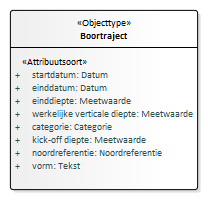
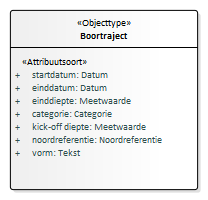
Conceptualmodel-MijnbouwconstructiesEPC-conceptueel-0.1versie27juli2020-1-20200727-20200828-135237

diff --git a/data/EPC-cat.msword.html b/data/EPC-cat.msword.html
@@ -15,7 +15,7 @@
    <body>
       <p>Conceptual model/Mijnbouwconstructies (EPC) - conceptueel/20200727</p>
       <p>Imvertor: 1.61.2</p>
-      <p>Model release: Conceptualmodel-MijnbouwconstructiesEPC-conceptueel-0.1versie27juli2020-1-20200727-20200811-134404</p>
+      <p>Model release: Conceptualmodel-MijnbouwconstructiesEPC-conceptueel-0.1versie27juli2020-1-20200727-20200828-135237</p>
       <hr>
       <section>
          <h1>Artikel 1 Definitie van registratieobject, entiteiten en attributen</h1>
@@ -45,6 +45,16 @@
                               van stoffen.</p>
                            </td>
                      </tr>
+                     <tr>
+                        <th>Populatie</th>
+                        <td>
+                           
+                           <p>De populatie mijnbouwconstructies in de basisregistratie ondergrond omvat alleen de
+                              mijnbouwconstructies die vanuit de mijnbouwwet worden uitgevoerd. Ieder object heeft
+                              ter identificatie een eigen BRO-ID. De huidige gegevensdefinitie beperkt zicht tot
+                              het boorgat.</p>
+                           </td>
+                     </tr>
                   </tbody>
                </table>
                </section>
@@ -52,7 +62,7 @@
          <section>
             <h2>Het domeinmodel</h2>
             <section id="">
-               <div class="imageinfo overview"><img src="Images/EAID_017CB205_53B6_4659_8664_F773CFA9FA2C.png" usemap="#imagemap-EAID_017CB205_53B6_4659_8664_F773CFA9FA2C" alt="Diagram "><map name="imagemap-EAID_017CB205_53B6_4659_8664_F773CFA9FA2C"><area shape="rect" alt="Gemeten punten" coords="476,567,592,669" href="#graph_EAID_5A1B04C2_2C34_4376_8F2B_27867C2DD65B"><area shape="rect" alt="Boortraject" coords="476,355,664,535" href="#graph_EAID_4E52826A_2252_4994_8AD0_986AD45E18C9"><area shape="rect" alt="Boorgat" coords="476,190,579,318" href="#graph_EAID_65D8EFAF_B4C4_4398_899C_9BFD5D3AF67A"><area shape="rect" alt="Mijnbouwconstructie" coords="476,10,646,151" href="#graph_EAID_69DE8D60_7E06_4b57_94CD_8338348EDAE5"><area shape="rect" alt="Registratiegeschiedenis" coords="211,14,423,233" href="#graph_EAID_8550146B_496A_40ca_BE86_AFD377E5A6D8"><area shape="rect" alt="Aangeleverde verticale positie" coords="676,190,947,344" href="#graph_EAID_A249D799_B098_49cd_98AA_DCAE0EB07DE7"><area shape="rect" alt="Aangeleverde locatie" coords="703,10,860,177" href="#graph_EAID_EDA11EEA_8FED_44be_AC04_18B58CB46F11"></map><p><b>Mijnbouwconstructies (EPC) -  overzicht</b></p>
+               <div class="imageinfo overview"><img src="Images/EAID_017CB205_53B6_4659_8664_F773CFA9FA2C.png" usemap="#imagemap-EAID_017CB205_53B6_4659_8664_F773CFA9FA2C" alt="Diagram "><map name="imagemap-EAID_017CB205_53B6_4659_8664_F773CFA9FA2C"><area shape="rect" alt="Gestandaardiseerde locatie" coords="709,371,947,473" href="#graph_EAID_95E39295_3080_4135_862A_30756039B864"><area shape="rect" alt="Gemeten punten" coords="476,567,592,669" href="#graph_EAID_5A1B04C2_2C34_4376_8F2B_27867C2DD65B"><area shape="rect" alt="Boortraject" coords="476,355,664,507" href="#graph_EAID_4E52826A_2252_4994_8AD0_986AD45E18C9"><area shape="rect" alt="Boorgat" coords="476,190,579,303" href="#graph_EAID_65D8EFAF_B4C4_4398_899C_9BFD5D3AF67A"><area shape="rect" alt="Mijnbouwconstructie" coords="476,10,646,151" href="#graph_EAID_69DE8D60_7E06_4b57_94CD_8338348EDAE5"><area shape="rect" alt="Registratiegeschiedenis" coords="211,10,423,229" href="#graph_EAID_8550146B_496A_40ca_BE86_AFD377E5A6D8"><area shape="rect" alt="Aangeleverde verticale positie" coords="676,190,947,344" href="#graph_EAID_A249D799_B098_49cd_98AA_DCAE0EB07DE7"><area shape="rect" alt="Aangeleverde locatie" coords="703,10,860,177" href="#graph_EAID_EDA11EEA_8FED_44be_AC04_18B58CB46F11"></map><p><b>Mijnbouwconstructies (EPC) -  overzicht</b></p>
                </div>
             </section>
          </section>
@@ -94,7 +104,7 @@
                               <th>Definitie</th>
                               <td>
                                  
-                                 <p>De identificatie van een booronderzoek in de registratie ondergrond.</p>
+                                 <p>De identificatie van een mijnbouwconstructie in de registratie ondergrond.</p>
                                  </td>
                            </tr>
                            <tr>
@@ -119,7 +129,7 @@
                            </tr>
                            <tr>
                               <th>&nbsp;&nbsp;Opbouw</th>
-                              <td></td>
+                              <td>EPCNNNNNNNNNNNN</td>
                            </tr>
                            <tr>
                               <th>Toelichting</th>
@@ -171,7 +181,7 @@
                               <td>
                                  
                                  <p>De organisatie moet bekend zijn binnen de basisregistratie ondergrond als bronhouder
-                                    van booronderzoek.</p>
+                                    van een mijnbouwconstructie.</p>
                                  </td>
                            </tr>
                            <tr>
@@ -205,7 +215,7 @@
                            </tr>
                            <tr>
                               <th>Juridische status</th>
-                              <td>Authentiek</td>
+                              <td>Niet-authentiek</td>
                            </tr>
                            <tr>
                               <th>Kardinaliteit</th>
@@ -217,7 +227,7 @@
                            </tr>
                            <tr>
                               <th>&nbsp;&nbsp;Naam</th>
-                              <td>Tekst </td>
+                              <td>Tekst 200</td>
                            </tr>
                            <tr>
                               <th>Toelichting</th>
@@ -252,7 +262,7 @@
                            </tr>
                            <tr>
                               <th>Juridische status</th>
-                              <td>Authentiek</td>
+                              <td>Niet-authentiek</td>
                            </tr>
                            <tr>
                               <th>Kardinaliteit</th>
@@ -271,7 +281,7 @@
                               <td>
                                  
                                  <p>De organisatie moet bekend zijn binnen de basisregistratie ondergrond als dataleverancier
-                                    van booronderzoek.</p>
+                                    van mijnbouwconstructies.</p>
                                  </td>
                            </tr>
                            <tr>
@@ -2023,48 +2033,6 @@
                            </tr>
                         </tbody>
                      </table>
-                     </section><a class="anchor" id="detail_attribute_Model_Boortraject_werkelijkeverticalediepte"></a><section id="detail_attribute_Model_Boortraject_werkelijkeverticalediepte">
-                     <h4>  werkelijke verticale diepte</h4>
-                     
-                     <table style="width: 100%;">
-                        <colgroup style="width: 30%;"></colgroup>
-                        <colgroup style="width: 70%;"></colgroup>
-                        <tbody>
-                           <tr>
-                              <th>Type gegeven</th>
-                              <td>Attribuut van Boortraject</td>
-                           </tr>
-                           <tr>
-                              <th>Definitie</th>
-                              <td>
-                                 
-                                 <p>De verticale diepte ten opzichte van het voor het de mijnbouwconstructie gespecificeerde
-                                    lokaal verticaal referentiepunt. </p>
-                                 </td>
-                           </tr>
-                           <tr>
-                              <th>Juridische status</th>
-                              <td>Authentiek</td>
-                           </tr>
-                           <tr>
-                              <th>Kardinaliteit</th>
-                              <td>1</td>
-                           </tr>
-                           <tr>
-                              <th>Domein</th>
-                              <td></td>
-                           </tr>
-                           <tr>
-                              <th>&nbsp;&nbsp;Naam</th>
-                              <td>Meetwaarde 
-                                 </td>
-                           </tr>
-                           <tr>
-                              <th>&nbsp;&nbsp;Eenheid</th>
-                              <td>m (meter)</td>
-                           </tr>
-                        </tbody>
-                     </table>
                      </section><a class="anchor" id="detail_attribute_Model_Boortraject_categorie"></a><section id="detail_attribute_Model_Boortraject_categorie">
                      <h4>  categorie</h4>
                      
@@ -2378,6 +2346,149 @@
                            <tr>
                               <th>&nbsp;&nbsp;Eenheid</th>
                               <td>° (graden)</td>
+                           </tr>
+                        </tbody>
+                     </table>
+                     </section>
+               </section><a class="anchor" id="graph_EAID_95E39295_3080_4135_862A_30756039B864"></a><a class="anchor" id="global_class_Model_Gestandaardiseerdelocatie"></a><section id="global_class_Model_Gestandaardiseerdelocatie">
+                  <h3>   Gestandaardiseerde locatie</h3>
+                  <div class="imageinfo "><img src="Images/EAID_37C0A707_A4BF_40be_A9A6_84139E7D0F0C.png" usemap="#imagemap-EAID_37C0A707_A4BF_40be_A9A6_84139E7D0F0C" alt="Diagram "><map name="imagemap-EAID_37C0A707_A4BF_40be_A9A6_84139E7D0F0C"><area shape="rect" alt="Gestandaardiseerde locatie" coords="10,10,248,85" href="#graph_EAID_95E39295_3080_4135_862A_30756039B864"></map><p><b></b></p>
+                  </div>
+                  <table style="width: 100%;">
+                     <colgroup style="width: 30%;"></colgroup>
+                     <colgroup style="width: 70%;"></colgroup>
+                     <tbody>
+                        <tr>
+                           <th>Type gegeven</th>
+                           <td>Entiteit</td>
+                        </tr>
+                        <tr>
+                           <th>Definitie</th>
+                           <td>
+                              
+                              <p>De gegevens over de plaats van het booronderzoek op het aardoppervlak zoals die door
+                                 de basisregistratie ondergrond zijn getransformeerd.</p>
+                              </td>
+                        </tr>
+                        <tr>
+                           <th>Toelichting</th>
+                           <td>
+                              
+                              <p>De gegevens staan niet in een brondocument. De gestandaardiseerde locatie wordt door
+                                 de basisregistratie ondergrond berekend ten behoeve van afnemers. Het maakt het mogelijk
+                                 alle gegevens in de registratie ondergrond in een en hetzelfde referentiestelsel te
+                                 ontsluiten.</p>
+                              
+                              <p>De locatie van booronderzoek is gedefinieerd als een punt.</p>
+                              </td>
+                        </tr>
+                     </tbody>
+                  </table><a class="anchor" id="detail_attribute_Model_Gestandaardiseerdelocatie_cordinaten"></a><section id="detail_attribute_Model_Gestandaardiseerdelocatie_cordinaten">
+                     <h4>  coördinaten</h4>
+                     
+                     <table style="width: 100%;">
+                        <colgroup style="width: 30%;"></colgroup>
+                        <colgroup style="width: 70%;"></colgroup>
+                        <tbody>
+                           <tr>
+                              <th>Type gegeven</th>
+                              <td>Attribuut van Gestandaardiseerde locatie</td>
+                           </tr>
+                           <tr>
+                              <th>Definitie</th>
+                              <td>
+                                 
+                                 <p>De coördinaten in het standaard referentiestelsel.</p>
+                                 </td>
+                           </tr>
+                           <tr>
+                              <th>Juridische status</th>
+                              <td>Authentiek</td>
+                           </tr>
+                           <tr>
+                              <th>Kardinaliteit</th>
+                              <td>1</td>
+                           </tr>
+                           <tr>
+                              <th>Domein</th>
+                              <td></td>
+                           </tr>
+                           <tr>
+                              <th>&nbsp;&nbsp;Naam</th>
+                              <td>Tekst </td>
+                           </tr>
+                        </tbody>
+                     </table>
+                     </section><a class="anchor" id="detail_attribute_Model_Gestandaardiseerdelocatie_referentiestelsel"></a><section id="detail_attribute_Model_Gestandaardiseerdelocatie_referentiestelsel">
+                     <h4>  referentiestelsel</h4>
+                     
+                     <table style="width: 100%;">
+                        <colgroup style="width: 30%;"></colgroup>
+                        <colgroup style="width: 70%;"></colgroup>
+                        <tbody>
+                           <tr>
+                              <th>Type gegeven</th>
+                              <td>Attribuut van Gestandaardiseerde locatie</td>
+                           </tr>
+                           <tr>
+                              <th>Definitie</th>
+                              <td>
+                                 
+                                 <p>Het referentiestelsel van de gestandaardiseerde coördinaten. </p>
+                                 </td>
+                           </tr>
+                           <tr>
+                              <th>Juridische status</th>
+                              <td>Authentiek</td>
+                           </tr>
+                           <tr>
+                              <th>Kardinaliteit</th>
+                              <td>1</td>
+                           </tr>
+                           <tr>
+                              <th>Domein</th>
+                              <td></td>
+                           </tr>
+                           <tr>
+                              <th>&nbsp;&nbsp;Naam</th>
+                              <td>Tekst </td>
+                           </tr>
+                        </tbody>
+                     </table>
+                     </section><a class="anchor" id="detail_attribute_Model_Gestandaardiseerdelocatie_cordinaattransformatie"></a><section id="detail_attribute_Model_Gestandaardiseerdelocatie_cordinaattransformatie">
+                     <h4>  coördinaattransformatie</h4>
+                     
+                     <table style="width: 100%;">
+                        <colgroup style="width: 30%;"></colgroup>
+                        <colgroup style="width: 70%;"></colgroup>
+                        <tbody>
+                           <tr>
+                              <th>Type gegeven</th>
+                              <td>Attribuut van Gestandaardiseerde locatie</td>
+                           </tr>
+                           <tr>
+                              <th>Definitie</th>
+                              <td>
+                                 
+                                 <p>De methode die de basisregistratie ondergrond heeft gebruikt voor het omzetten van
+                                    de aangeleverde coördinaten.</p>
+                                 </td>
+                           </tr>
+                           <tr>
+                              <th>Juridische status</th>
+                              <td>Authentiek</td>
+                           </tr>
+                           <tr>
+                              <th>Kardinaliteit</th>
+                              <td>1</td>
+                           </tr>
+                           <tr>
+                              <th>Domein</th>
+                              <td></td>
+                           </tr>
+                           <tr>
+                              <th>&nbsp;&nbsp;Naam</th>
+                              <td>Tekst </td>
                            </tr>
                         </tbody>
                      </table>
